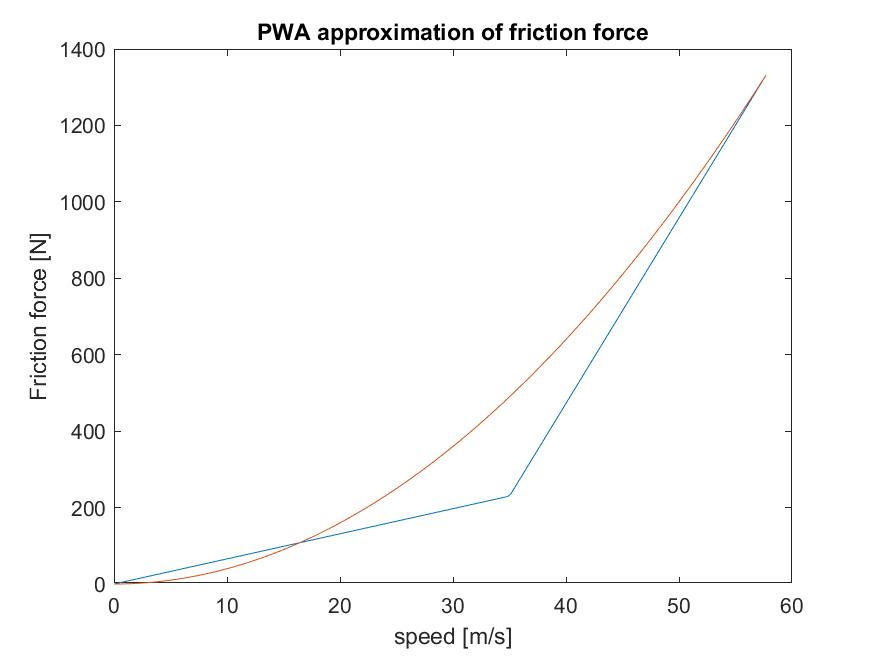
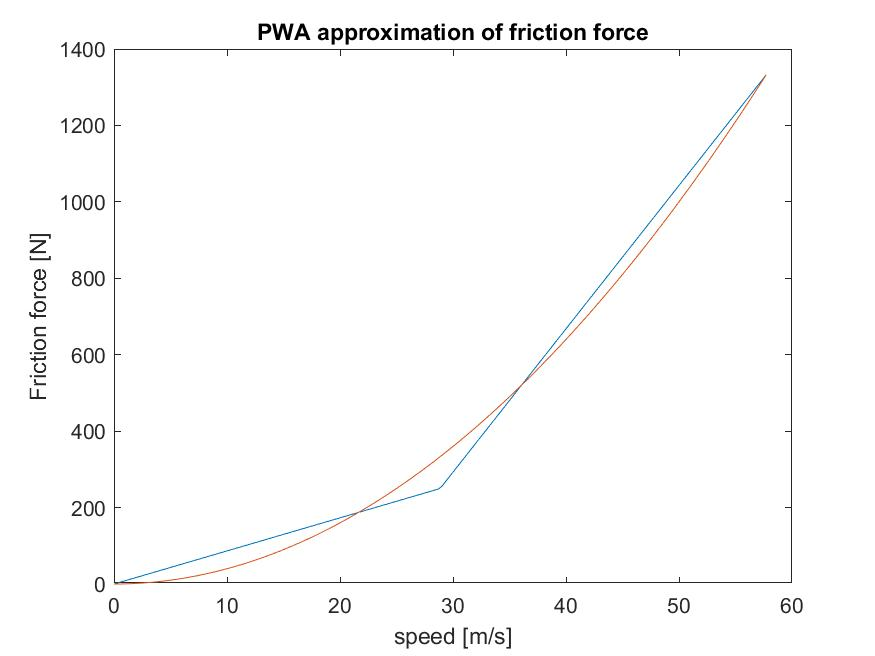
Fixed up untill 2.5

diff --git a/code files/main.m b/code files/main.m
@@ -1,40 +1,54 @@
 clc
 close all, clear all
 variables
+fig = 1;
+WorkingOn = "2.3";
 %% Dynamics test
-x=0;
-v=0;
-u=u_max;
-for t=2:t_end
-    if v<v12
-%         warning("Here I am in gear 1")
-        gear = 1;
-    elseif v<v23
-%         warning("Here I am in gear 2")
-        gear=2;
-    else
-        gear=3;
-    end
-    if t>10
-        if v(t-1)-v(t-8)<10^-5
-            u=u_min;
-        end
-    if v(t-1)<0
-        u=u_max;
-    end
-    end
-    
-    x(t)=x(t-1)+v(t-1)*step;
-    v(t)=v(t-1)+((b/(gamma*gear+1)*u-c*v(t-1)^2)/m)*step;
-end
+% x=0;
+% v=0;
+% u=u_max;
+% for t=2:t_end
+%     if v<v12
+% %         warning("Here I am in gear 1")
+%         gear = 1;
+%     elseif v<v23
+% %         warning("Here I am in gear 2")
+%         gear=2;
+%     else
+%         gear=3;
+%     end
+%     if t>10
+%         if v(t-1)-v(t-8)<10^-5
+%             u=u_min;
+%         end
+%     if v(t-1)<0
+%         u=u_max;
+%     end
+%     end
+%     
+%     x(t)=x(t-1)+v(t-1)*step;
+%     v(t)=v(t-1)+((b/(gamma*gear+1)*u-c*v(t-1)^2)/m)*step;
+% end
 
-figure(1)
-plot(v)
+u = @(t) u_max + heaviside(t-100)*(-u_max + u_min) + heaviside(t-120)*(-u_min + u_max)...
+    + heaviside(t-170)*(-u_max);
+[t_0_1,y_0_1] = ode45(@(t,y) modelExact(t,y,u,vars, ""), [0 t_end*step], [0 0]);
+
+if WorkingOn == "dyntest" || WorkingOn=="all"
+figure(fig); fig = fig+1;
+plot(t_0_1,y_0_1(:,2))
 title 'ACC Car dynamics simulation'
 xlabel 'time [s]'
 ylabel 'speed [m/s]'
-saveas(gcf,'Pics/Plot_2.1.jpg')
+saveas(gcf,'Pics/Plot_2.1_1.jpg')
 
+% figure(fig); fig = fig+1;
+% plot(t_0_1, u(t_0_1))
+% title 'ACC Car dynamics simulation input'
+% xlabel 'time [s]'
+% ylabel 'speed [m/s]'
+% saveas(gcf,'Pics/Plot_2.1_2.jpg')
+end
 
 %% 2.1
 v_max = ((b*u_max)/(c*(1+gamma*g(3))))^.5;
@@ -43,28 +57,31 @@ a_min = (b*u_min)/(1+gamma*g(3))/m-c/m*v_max^2;
 
 vars.v_max = v_max; % Make struct to pass to functions later
 %% 2.2
-Vsamp = linspace(0, v_max, 200);
-alpha = 35; beta = 230;
+
+[alpha, beta, err] = optApprox(vars);
 vars.alpha = alpha; vars.beta = beta;
 
+Vsamp = linspace(0, v_max, 200);
 P_2 = fricApprox(Vsamp, vars);
 
-figure(2)
+if WorkingOn == "2.2" || WorkingOn=="all"
+figure(fig); fig = fig+1;
 plot(Vsamp, P_2); hold on
-% plot(Vsamp, Vsamp);
 plot(Vsamp, c*Vsamp.^2); hold off
 title 'PWA approximation of friction force'
 ylabel 'Friction force [N]'
 xlabel 'speed [m/s]'
 saveas(gcf,'Pics/Plot_2.2.jpg')
+end
 
 %% 2.3
-x0 = [0;10];
-u = @(t) 0.01 + u_max/2*sin(t/2/pi);
-[t_3_1,y_3_1] = ode45(@(t,y) modelExact(t,y,u,vars, "gearlock"), [0 t_end], x0);
-[t_3_2,y_3_2] = ode45(@(t,y) modelPWA(t,y,u,vars, "gearlock"), [0 t_end], x0);
+x0 = [0;0];
+u = @(t) u_max/5 + u_max/2*sin(t/2/pi);
+[t_3_1,y_3_1] = ode45(@(t,y) modelExact(t,y,u,vars, "gearlock"), [0 t_end*step], x0);
+[t_3_2,y_3_2] = ode45(@(t,y) modelPWA(t,y,u,vars, "gearlock"), [0 t_end*step], x0);
 
-figure(3)
+if WorkingOn == "2.3" || WorkingOn=="all"
+figure(fig); fig = fig+1;
 plot(t_3_1,u(t_3_1));
 title 'PWA approximation comparison input'
 ylabel 'input'
@@ -72,7 +89,7 @@ xlabel 'time [s]'
 % legend("Exact model", "PWA", 'Interpreter', 'latex')
 saveas(gcf,'Pics/Plot_2.3_1.jpg')
 
-figure(4)
+figure(fig); fig = fig+1;
 plot(t_3_1,y_3_1(:, 2)); hold on
 plot(t_3_2,y_3_2(:, 2)); hold off
 title 'PWA approximation comparison'
@@ -81,19 +98,42 @@ xlabel 'time [s]'
 legend("Exact model", "PWA", 'Interpreter', 'latex')
 saveas(gcf,'Pics/Plot_2.3_2.jpg')
 
-figure(5)
+figure(fig); fig = fig+1;
 plot(Vsamp, P_2); hold on
 plot(Vsamp, c*Vsamp.^2);
-plot(y_3_1(:, 2), t_3_1 .* P_2(end)/t(end));
-plot(y_3_2(:, 2), t_3_2 .* P_2(end)/t(end)); hold off
+plot(y_3_1(:, 2), t_3_1 .* P_2(end)/t_3_1(end));
+plot(y_3_2(:, 2), t_3_2 .* P_2(end)/t_3_2(end)); hold off
 % title 'PWA approximation comparison'
 % ylabel 'speed [m/s]'
 % xlabel 'time [s]'
 % legend("Exact model", "PWA", 'Interpreter', 'latex')
 saveas(gcf,'Pics/Plot_2.3_3.jpg')
+end
 
 %% 2.5
-close all
+T = 1:t_end;
+U = u(T*dt).*ones(size(T));
 
-V=FEuler(t_end,u,dt);
+[t_5_1, y_5_1] = FEuler(x0, U, vars);
+[t_5_2, y_5_2] = ode45(@(t,y) modelPWA(t,y,u,vars, ""), [0 t_end*step], x0);
 
+if WorkingOn == "2.5" || WorkingOn=="all"
+% figure(fig); fig = fig+1;
+% plot(t_5_2,u(t_5_2)); hold on
+% plot(T*dt,U, "--");hold off
+% title 'Integration comparison input'
+% ylabel 'input'
+% xlabel 'time [s]'
+% legend("ODE45", "FE", 'Interpreter', 'latex')
+% saveas(gcf,'Pics/Plot_2.3_2.jpg')
+
+figure(fig); fig = fig+1;
+plot(t_5_2,y_5_2(:, 2)); hold on
+plot(t_5_1,y_5_1(2, :), "--"); hold off
+title 'Integration comparison'
+ylabel 'speed [m/s]'
+xlabel 'time [s]'
+legend("ODE45", "FE", 'Interpreter', 'latex')
+% saveas(gcf,'Pics/Plot_2.3_2.jpg')
+
+end

diff --git a/code files/FEuler.m b/code files/FEuler.m
@@ -1,35 +1,9 @@
-function [v] = FEuler(t_end, u,dt)
-variables
-%alpha = 10;
-a(0)=0;
-v(0)=0;
-for t=1:t_end/dt
-     switch v(t)
-          case v(t)<v12&v(t)<alpha
-            g(t)=1;
-            disp('X1')
-          case v(t)<v12&v(t)>alpha
-            g(t)=1;
-            disp('X2')
-          case v(t)>v12&v(t)<v23&v(t)<alpha
-            g(t)=2;
-            disp('X3')
-          case v(t)>v12&v(t)<v23&v(t)>alpha
-            g(t)=2;
-            disp('X4')
-          case v(t)>v23&v(t)<alpha
-            g(t)=3;
-            disp('X5')
-          case v(t)>v23&v(t)>alpha
-            g(t)=3;
-            disp('X6')
-          otherwise
-            
-        end
-    v(t+1)=v(t)+dt*a(t);
-    a(t+1)=1/m*((b/(1+gamma*g(t)))-(c*v(t)^2));
-
-    if v(t+1)<10^-3
-        v(t+1)=0;
-    end
+function [T, x] = FEuler(x0, u, vars)
+x = zeros(2, vars.t_end);
+x(:, 1) = x0;
+T = 1:vars.t_end;
+T = T*vars.dt;
+for t = 2:vars.t_end
+    x(:, t) = x(:, t-1) + vars.dt* modelPWA(t, x(:, t-1), u, vars, "");
+end
 end

diff --git a/code files/optApprox.m b/code files/optApprox.m
@@ -1,0 +1,21 @@
+function [alpha, beta, err] = optApprox(vars)
+syms alph bet
+syms v
+c = vars.c; vmax = vars.v_max;
+
+r1 = (c*v^2 - bet/alph *v)^2; % region 1
+r2 = (c*v^2 - (c*vmax^2 - bet)/(vmax - alph) *v - bet + ...
+    (c*vmax^2 - bet)/(vmax - alph) *alph)^2; % region 2
+
+A1 = int(r1, v, 0, alph); % Area 1
+A2 = int(r2, v, alph, vmax); % Area 2
+
+A = A1 + A2; % Total area
+
+fA = matlabFunction(A, 'Vars', {symvar(A)}); % Make a function of the vector [alpha, beta]
+
+[vals, err] = fmincon(fA, [vmax/2, c*(vmax/2)^2], [], []); % minimise
+alpha = vals(1);
+beta = vals(2);
+
+end

diff --git a/code files/modelPWA.m b/code files/modelPWA.m
@@ -5,13 +5,13 @@ ut = u(t);
 if mode == "gearlock"
     gear = 1;
 elseif y(2)<vars.v12
-    warning("Here I am in gear 1")
+%     warning("Here I am in gear 1")
     gear = 1;
 elseif y(2)<vars.v23
-    warning("Here I am in gear 2")
+%     warning("Here I am in gear 2")
     gear=2;
 else
-    warning("Here I am in gear 3")
+%     warning("Here I am in gear 3")
     gear=3;
 end
 

diff --git a/code files/fricApprox.m b/code files/fricApprox.m
@@ -5,6 +5,10 @@ function [P] = fricApprox(v, vars)
 P = zeros(size(v));
 
 boundaryIdx = find(v<vars.alpha, 1, 'last' ); % Get switching point between functions
+if all(v>vars.alpha) % or if every speed is above alpha
+    boundaryIdx = 0;
+end
+
 
 P(1:boundaryIdx) = vars.beta/vars.alpha .* v(1:boundaryIdx);
 

diff --git a/code files/variables.m b/code files/variables.m
@@ -11,6 +11,7 @@ v23 = 30;
 g = [1,2,3];
 step=.1;
 t_end = 3*10^3;
+dt = 0.15;
 
 % Make struct to pass to functions later
 vars.m = m; 
@@ -23,5 +24,5 @@ vars.v12 = v12;
 vars.v23 = v23;
 vars.g = g;
 vars.t_end = t_end;
+vars.dt = dt;
 
-dt = 0.15;
